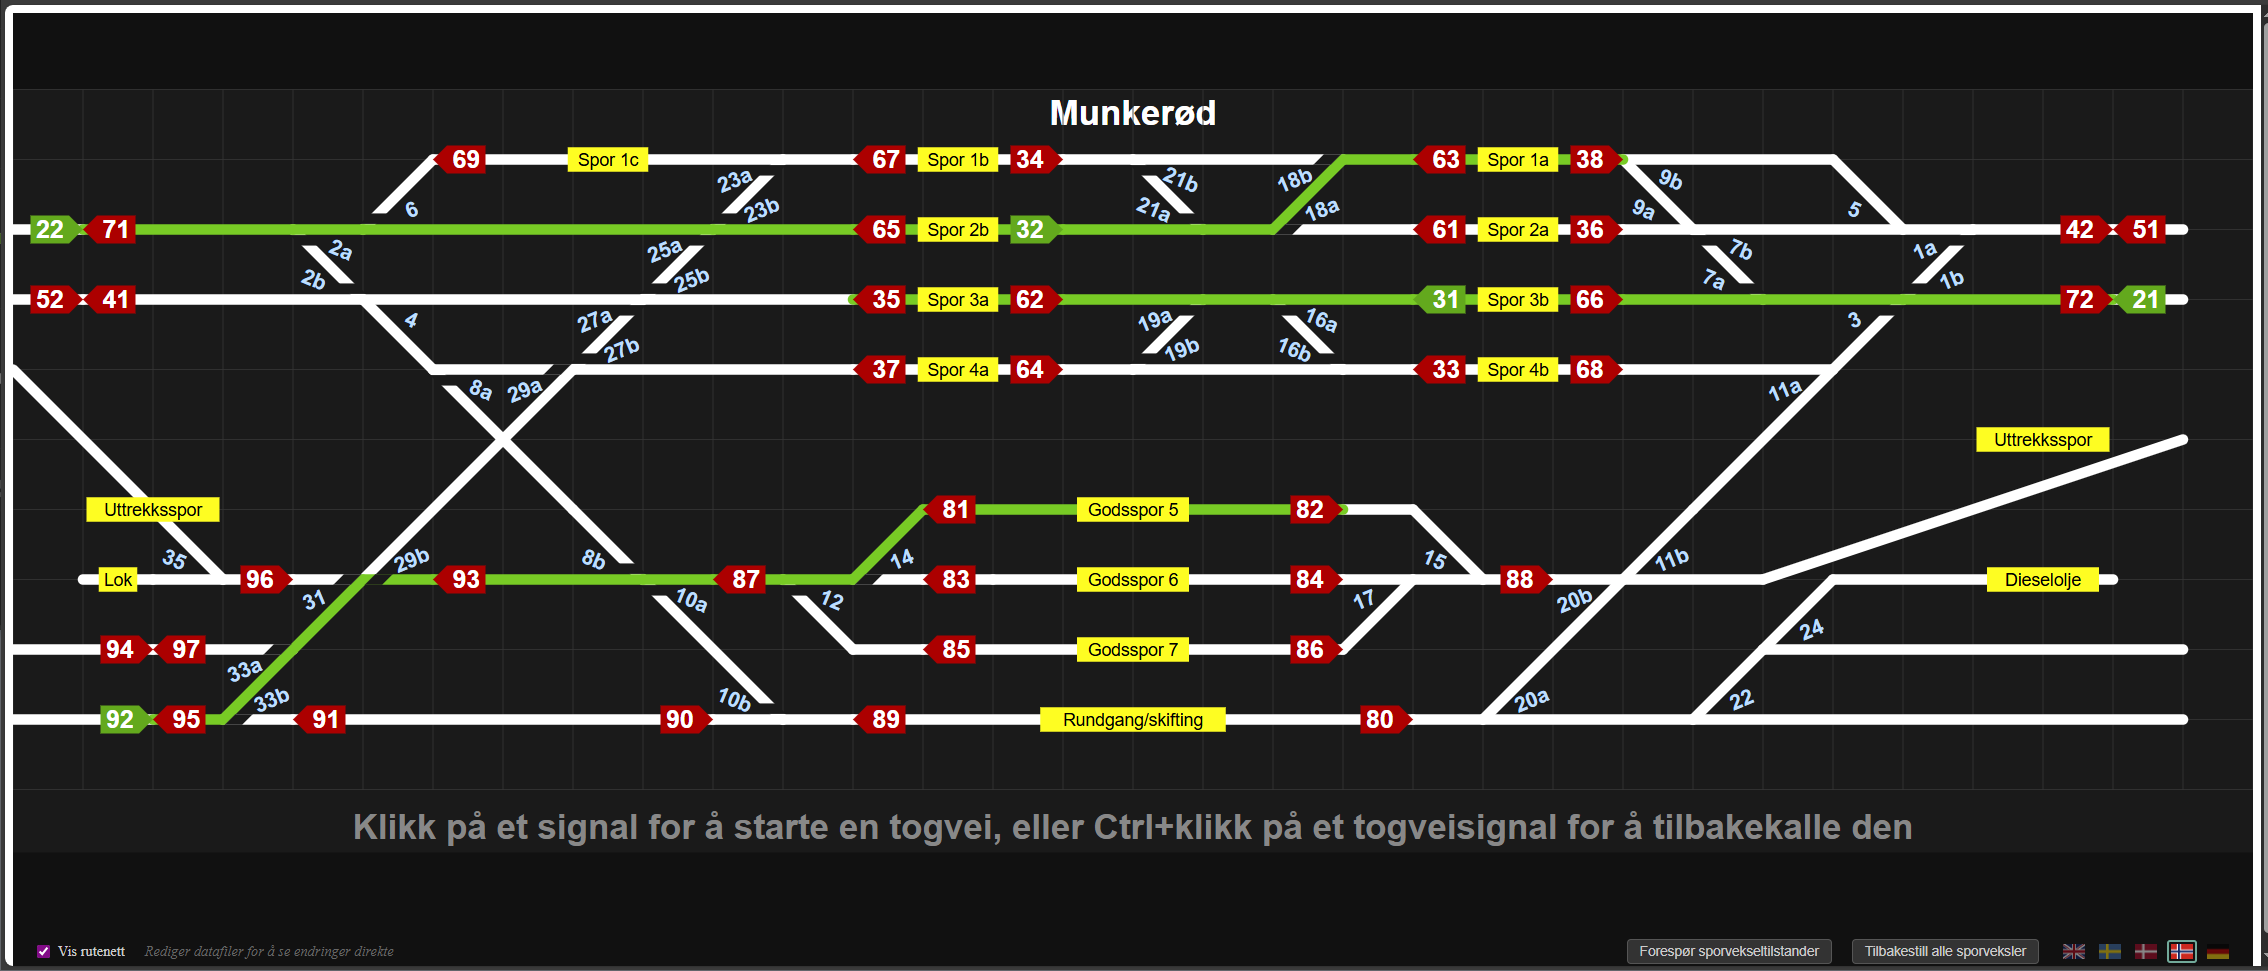
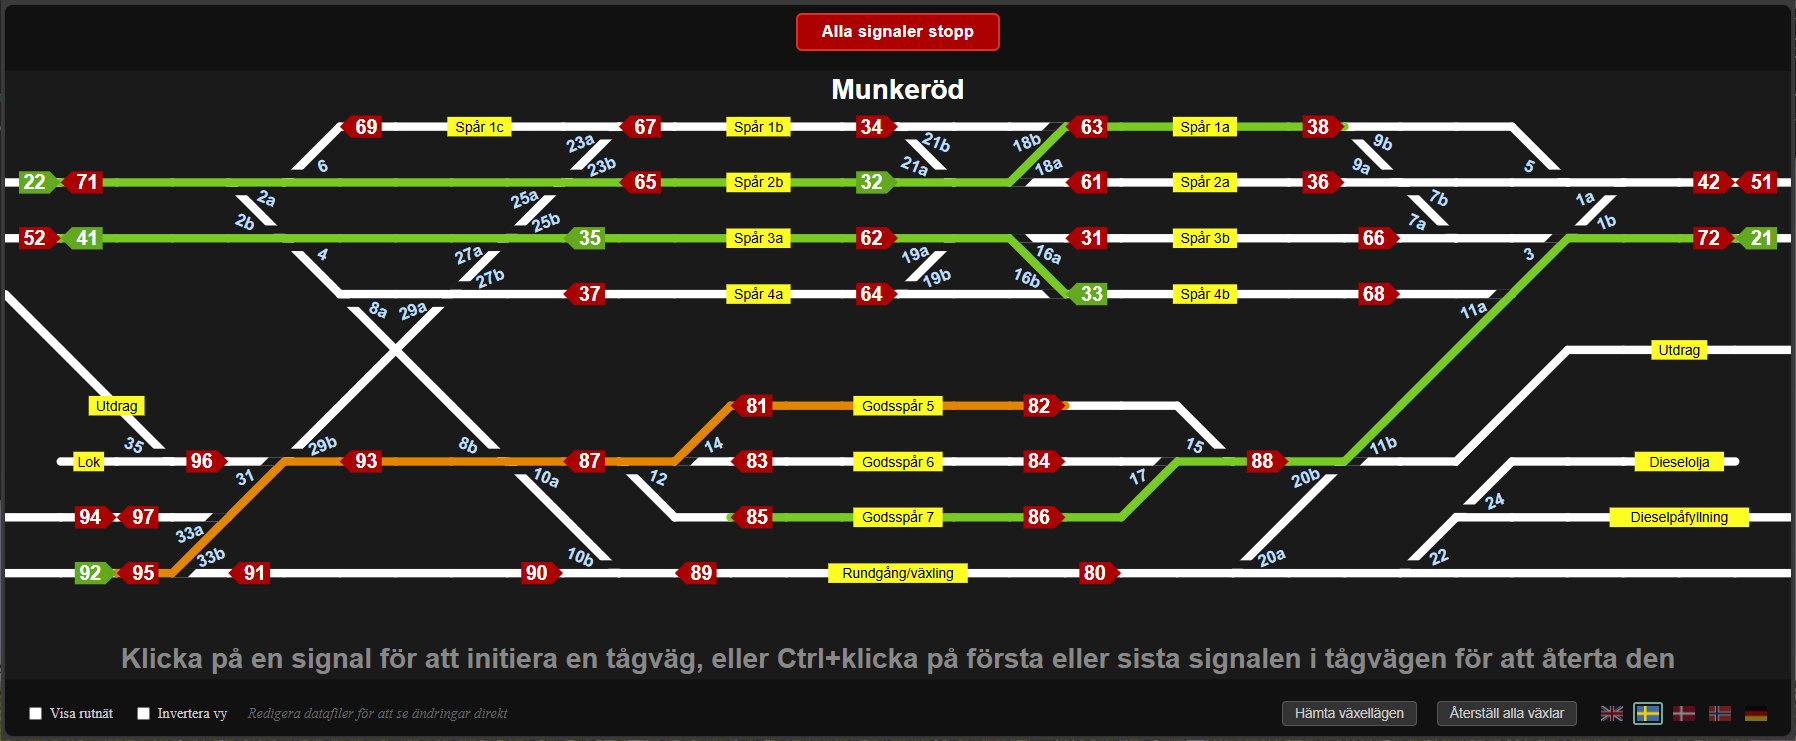
Made trainlabels work.

Changed region(s): [[0.0, 0.0, 1.0, 1.0], [0.0624, 0.8381, 0.9354, 0.9001]]

diff --git a/YardController.Web/Services/NumericKeypadControllerInputs.cs b/YardController.Web/Services/NumericKeypadControllerInputs.cs
@@ -119,8 +119,10 @@ public sealed class NumericKeypadControllerInputs(ILogger<NumericKeypadControlle
                 continue;
             }
             inputKeys.Append(key);
-            if (inputKeys.IsClearAllTrainRoutes)
+            if (inputKeys.IsClearAllTrainRoutes || inputKeys.IsCancelAllTrainRoutes)
             {
+                var isCancelAll = inputKeys.IsCancelAllTrainRoutes;
+
                 // Cancel any pending delayed releases
                 foreach (var cts in _pendingReleases.Values) cts.Cancel();
                 _pendingReleases.Clear();
@@ -149,6 +151,22 @@ public sealed class NumericKeypadControllerInputs(ILogger<NumericKeypadControlle
                     }
                     _trainRouteNotificationService.NotifyRouteCleared(shuntingRoute,
                         string.Format(Messages.RouteCleared, shuntingRoute.FromSignal, shuntingRoute.ToSignal));
+                }
+
+                // Cancel all: remove all train numbers
+                // Clear all: remove train numbers only at outbound main destination signals
+                if (isCancelAll)
+                {
+                    _trainNumberService.ClearAll();
+                }
+                else
+                {
+                    foreach (var route in _pointLockings.CurrentRoutes)
+                    {
+                        if (_signalsByNumber.TryGetValue(route.ToSignal, out var toSignal)
+                            && toSignal.Type == SignalType.OutboundMain)
+                            _trainNumberService.RemoveTrainNumber(route.ToSignal);
+                    }
                 }
 
                 var delaySeconds = GetLockReleaseDelaySeconds();
@@ -187,7 +205,6 @@ public sealed class NumericKeypadControllerInputs(ILogger<NumericKeypadControlle
                     _pointLockings.ReleaseAllLocks();
                     _trainRouteNotificationService.NotifyAllRoutesCleared(Messages.AllRoutesCleared);
                 }
-                _trainNumberService.ClearAll();
                 inputKeys.Clear();
                 continue;
             }
@@ -442,11 +459,18 @@ public sealed class NumericKeypadControllerInputs(ILogger<NumericKeypadControlle
                 fromSignal = _pointLockings.CurrentRoutes.FirstOrDefault(r => r.ToSignal == trainRouteCommand.ToSignal)?.FromSignal ?? 0;
 
             // Cancel (ESC) removes train numbers; Clear (/) keeps them
+            // Exception: Clear also removes train number at outbound main destination (train has departed)
             if (trainRouteCommand.State == TrainRouteState.Cancel)
             {
                 _trainNumberService.RemoveTrainNumber(trainRouteCommand.ToSignal);
                 if (fromSignal > 0)
                     _trainNumberService.RemoveTrainNumber(fromSignal);
+            }
+            else if (trainRouteCommand.State == TrainRouteState.Clear
+                && _signalsByNumber.TryGetValue(trainRouteCommand.ToSignal, out var clearToSignal)
+                && clearToSignal.Type == SignalType.OutboundMain)
+            {
+                _trainNumberService.RemoveTrainNumber(trainRouteCommand.ToSignal);
             }
 
             // Guard against double-cancel: if already pending release, skip

diff --git a/YardController.Model/Control/Extensions/CharExtensions.cs b/YardController.Model/Control/Extensions/CharExtensions.cs
@@ -4,7 +4,8 @@ namespace Tellurian.Trains.YardController.Model.Control.Extensions;
 
 public static class CharExtensions
 {
-    const string CancelAllTrainRoutes = "//";
+    const string ClearAllTrainRoutes = "//";
+    const string CancelAllTrainRoutes = "\x1b\x1b";
     const string StopAllSignals = "**";
     const char ClearCommand = '<';
 
@@ -84,6 +85,8 @@ public static class CharExtensions
         public bool IsReloadConfiguration
             => command.Length == 2 && command[0] == '+' && command[1] == '-';
         public bool IsClearAllTrainRoutes
+            => command.Length == 2 && command.ToString() == ClearAllTrainRoutes;
+        public bool IsCancelAllTrainRoutes
             => command.Length == 2 && command.ToString() == CancelAllTrainRoutes;
         public bool IsAllSignalsStop
             => command.Length == 2 && command.ToString() == StopAllSignals;

diff --git a/YardController.Tests/CharExtensionsTests.cs b/YardController.Tests/CharExtensionsTests.cs
@@ -197,6 +197,26 @@ public class CharExtensionsTests
 
     #endregion
 
+    #region StringBuilder IsCancelAllTrainRoutes Tests
+
+    [TestMethod]
+    public void DoubleEscapeIsCancelAllTrainRoutes()
+    {
+        var sb = new StringBuilder("\x1b\x1b");
+        Assert.IsTrue(sb.IsCancelAllTrainRoutes);
+    }
+
+    [TestMethod]
+    public void OtherStringsAreNotCancelAllTrainRoutes()
+    {
+        Assert.IsFalse(new StringBuilder("\x1b").IsCancelAllTrainRoutes);
+        Assert.IsFalse(new StringBuilder("\x1b\x1b\x1b").IsCancelAllTrainRoutes);
+        Assert.IsFalse(new StringBuilder("//").IsCancelAllTrainRoutes);
+        Assert.IsFalse(new StringBuilder("").IsCancelAllTrainRoutes);
+    }
+
+    #endregion
+
     #region StringBuilder IsPointCommand Tests
 
     [TestMethod]

diff --git a/README.md b/README.md
@@ -56,14 +56,27 @@ A point number can represent a single point or multiple coupled points (e.g., op
 |---------|-------------|
 | `[from][to]⏎` | Set main train route (e.g., `2131⏎` sets path from signal 21 to 31) |
 | `[from][to]*` | Set shunting route |
-| `[from][to]/` | Clear train route (e.g., `2131/`) |
+| `[from][to]/` | Clear train route, keeping train numbers (e.g., `2131/`) |
+| `[from][to]ESC` | Cancel train route and remove train numbers |
 | `[from].[to]⏎` | When signal numbers have different digit counts, use `.` as divider (e.g., `121.33⏎`) |
 | `[from].[via].[to]⏎` | Multi-signal route (e.g., `21.31.35⏎`) |
 | `[signal]/` | Clear all routes up to a signal (e.g., `31/`) |
-| `//` | Cancel all train routes and clear all locks |
+| `//` | Clear all train routes and release all locks (keeps train numbers, except at outbound signals) |
+| `ESC ESC` | Cancel all train routes, release all locks, and remove all train numbers |
 | `**` | Set all signals to stop |
 
 **Note:** Clearing up to a signal can be used to manually confirm that a train has reached its destination signal, releasing the locks on points used in the route. This is useful when occupancy detection is not available.
+
+#### Train Number Commands
+
+Train numbers can be assigned to signals when setting a route by adding `=[trainNumber]` before the route terminator.
+
+| Command | Description |
+|---------|-------------|
+| `[from][to]=[trainNumber]⏎` | Set route and assign train number to destination signal (e.g., `2131=1234⏎`) |
+| `[from].[to]=[trainNumber]⏎` | Same with `.` divider (e.g., `121.33=1234⏎`) |
+
+When a route is set, any existing train number at the from signal is automatically moved to the destination signal. An explicit train number in the command takes precedence over a moved number. Cancelling a route with `ESC` removes train numbers from both signals; clearing with `/` keeps them.
 
 #### Turntable Commands
 
@@ -76,7 +89,7 @@ A point number can represent a single point or multiple coupled points (e.g., op
 | Command | Description |
 |---------|-------------|
 | `⌫` | Clear current input buffer |
-| `+` `-` | Reload configuration |
+| `+-` | Reload configuration |
 
 ## LocoNet Communication
 
